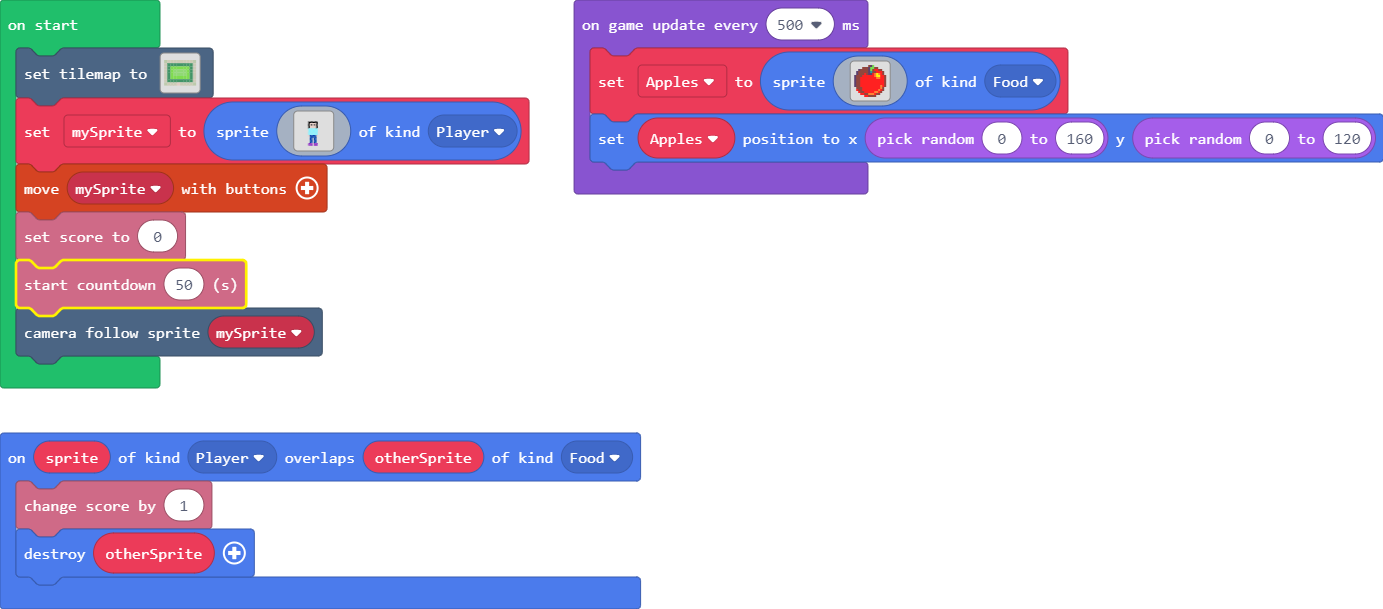
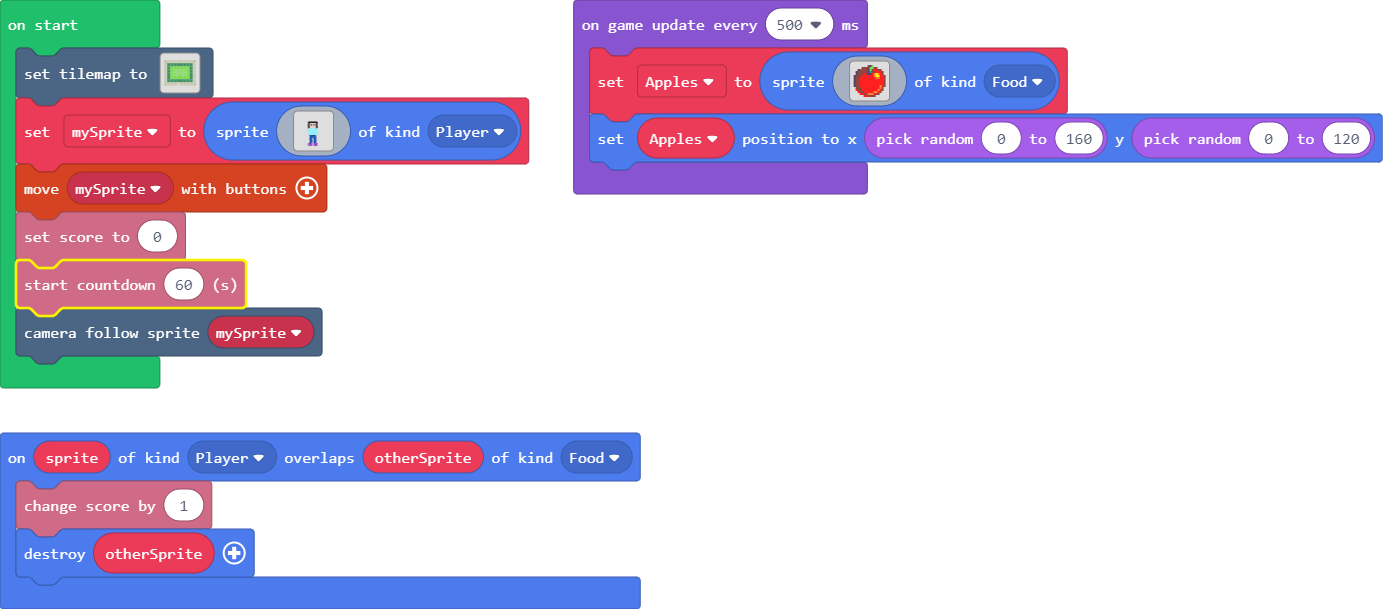
change to 60 seconds

diff --git a/main.ts b/main.ts
@@ -86,7 +86,7 @@ let mySprite = sprites.create(img`
 `, SpriteKind.Player)
 controller.moveSprite(mySprite)
 info.setScore(0)
-info.startCountdown(50)
+info.startCountdown(60)
 scene.cameraFollowSprite(mySprite)
 game.onUpdateInterval(500, function () {
     Apples = sprites.create(img`
